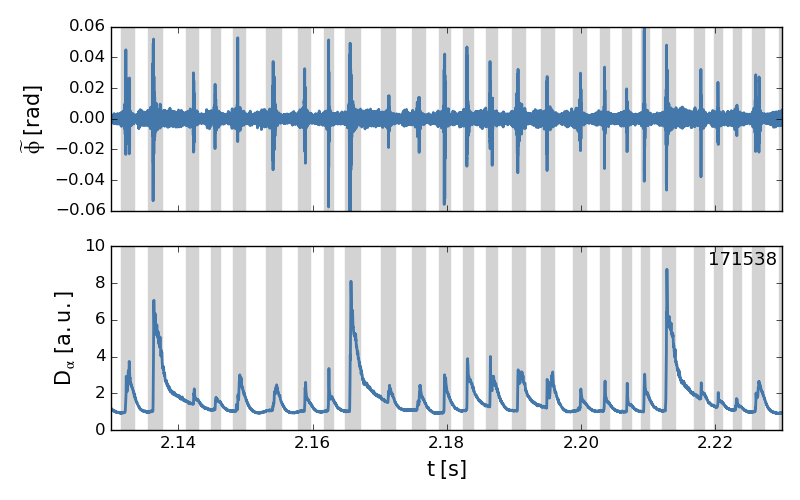
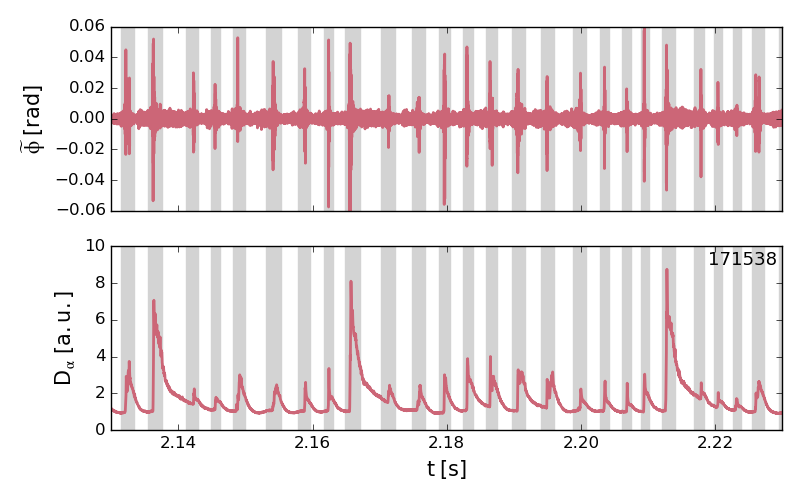
Correct trace color of ELM-filtering example

Changed region(s): [[0.125, 0.06, 1.0, 0.42], [0.125, 0.54, 0.9062, 0.84], [0.9062, 0.75, 0.9688, 0.84]]

diff --git a/Chapters/TurbulenceMeasurements/figs/ELM_filtering_example.py b/Chapters/TurbulenceMeasurements/figs/ELM_filtering_example.py
@@ -25,7 +25,7 @@ window_fraction = [0.2, 0.8]
 figsize = (8, 5)
 # tlim = [2.92, 2.98]
 tlim = [2.13, 2.23]
-trace_color = get_distinct(1)[0]
+trace_color = get_distinct(2)[1]
 linewidth = 2
 fontsize = 15
 spike_color = 'lightgray'
